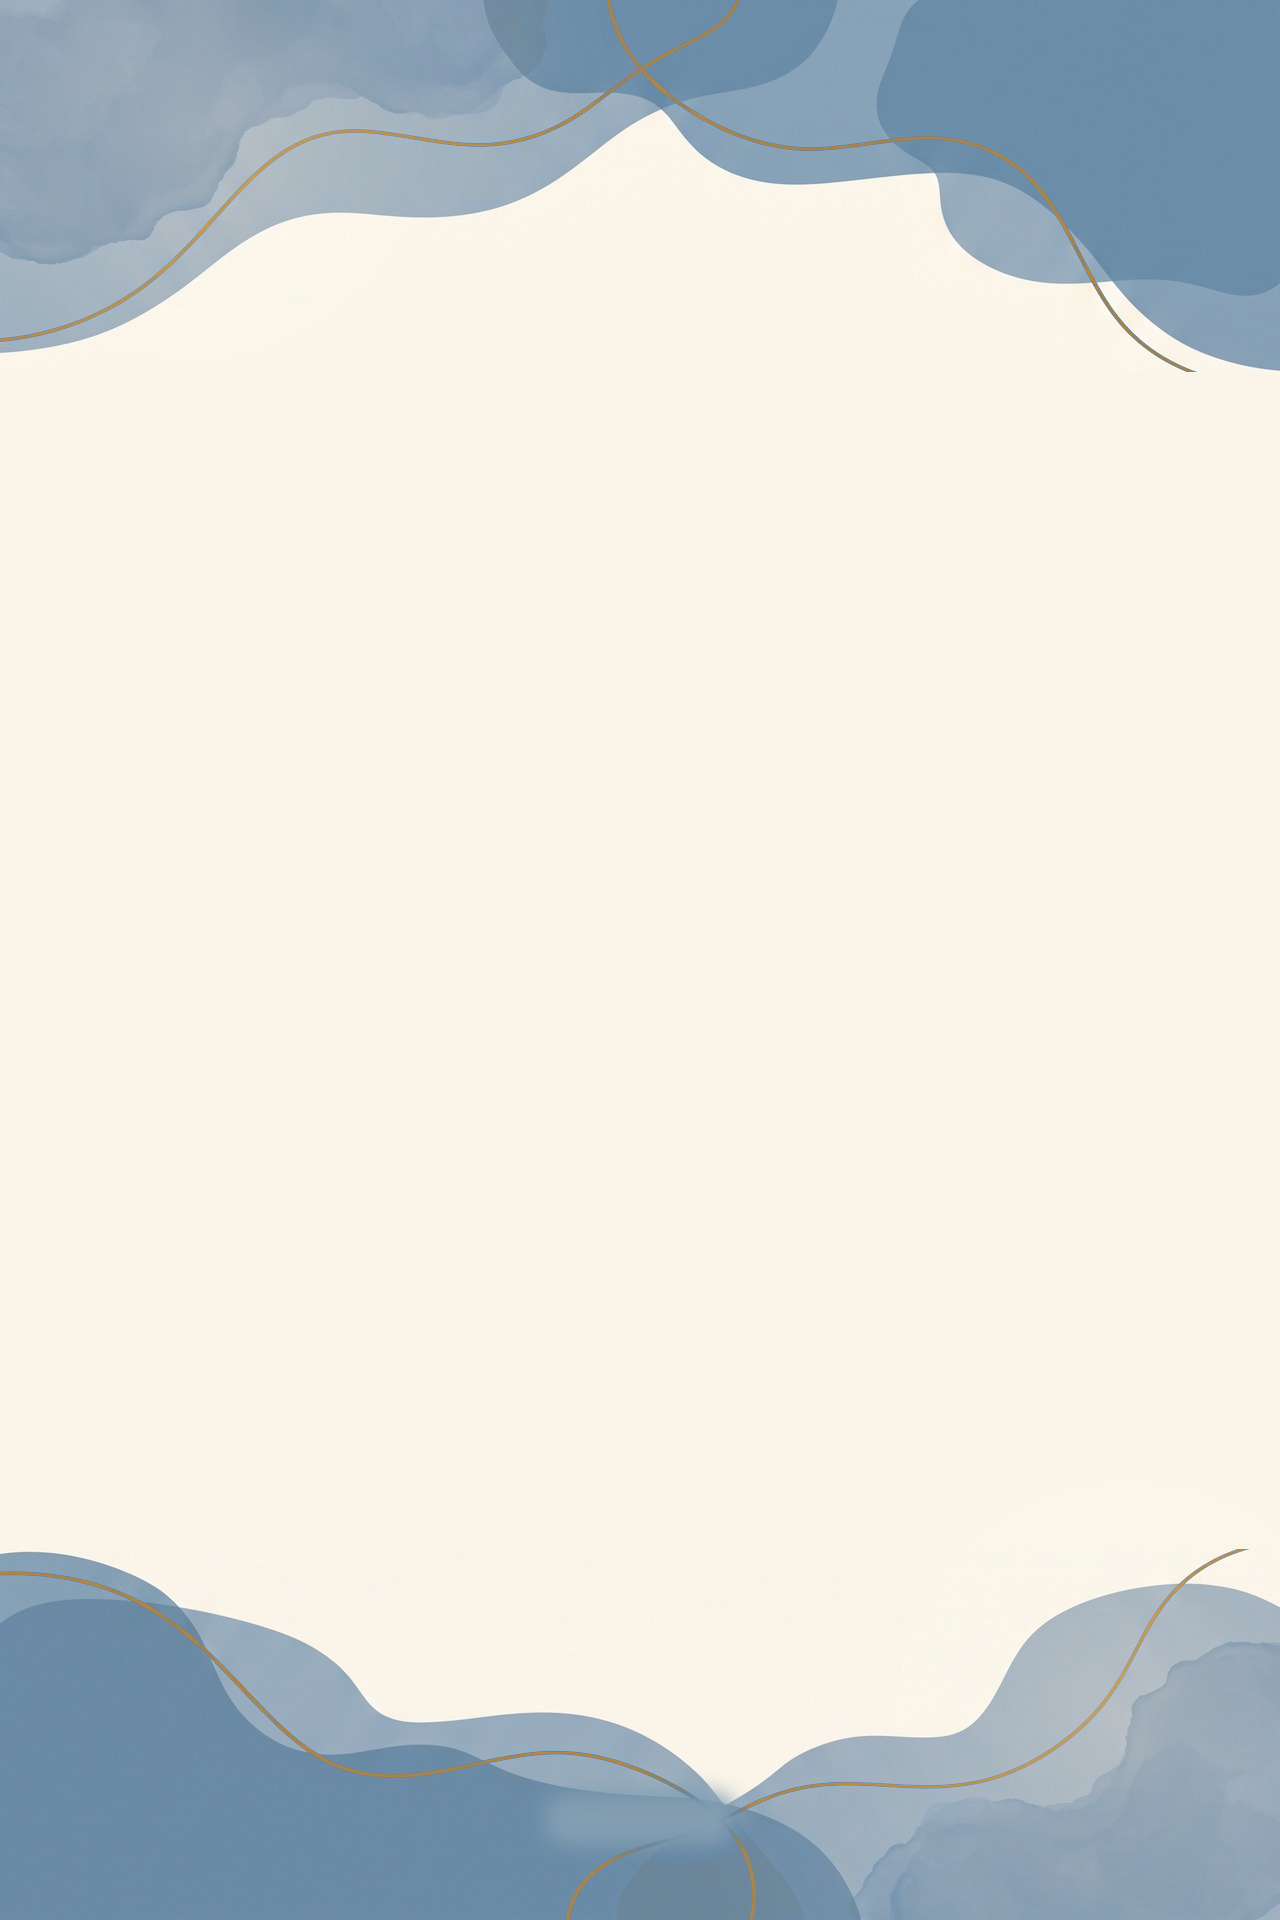
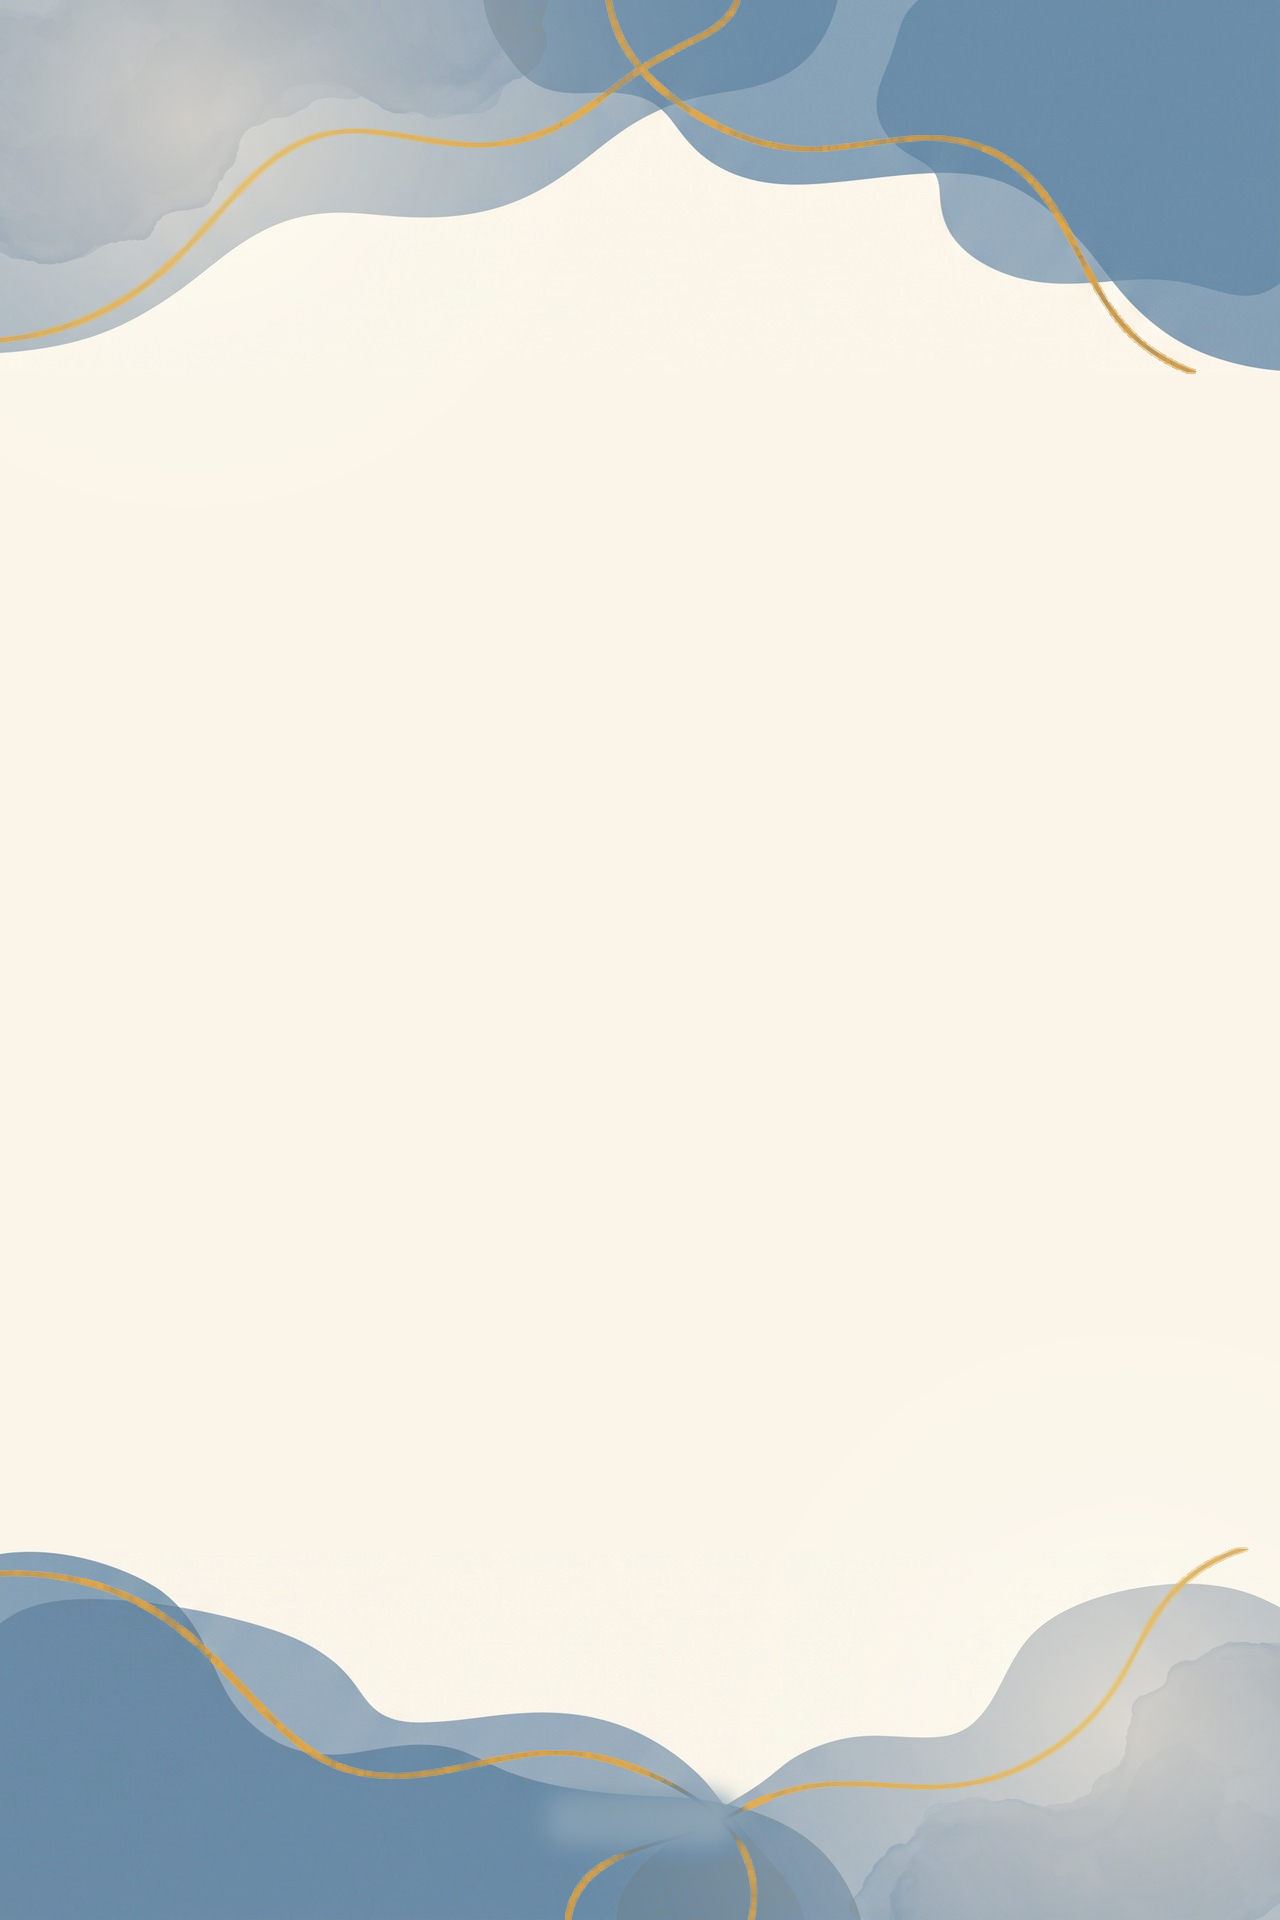
ОКСИЯ: усилила золото в облаках Историй, заголовок «Семейные классы» разбит на два цвета по словам (синий/зелёный)

diff --git a/story-preview/_build/story-sample-01.html b/story-preview/_build/story-sample-01.html
@@ -54,9 +54,10 @@
   .disp{
     font-family:"Playfair Display",serif; font-weight:800;
     font-size:158px; line-height:1.05; letter-spacing:-.005em;
-    color:var(--blue-muted);
     margin-top:40px;
   }
+  .disp .w1{ color:var(--blue-muted); }
+  .disp .w2{ color:var(--green-muted); }
   .sub{ margin-top:40px; font-size:53px; font-weight:700; color:var(--bronze); }
 
   .chip{
@@ -87,7 +88,7 @@
   <div class="zone">
     <div class="kick">ОКСИЯ · ВАСИЛЬЕВСКИЙ ОСТРОВ</div>
     <div class="stripe"><i class="b"></i><i class="r"></i><i class="g"></i></div>
-    <h1 class="disp">Семейные<br>классы</h1>
+    <h1 class="disp"><span class="w1">Семейные</span><br><span class="w2">классы</span></h1>
     <div class="sub">начальная школа полного дня</div>
     <div class="chip">Маленький класс, где педагог<br>видит каждого ребёнка</div>
     <div class="facts">методика РКШ · до 12 детей в классе</div>
